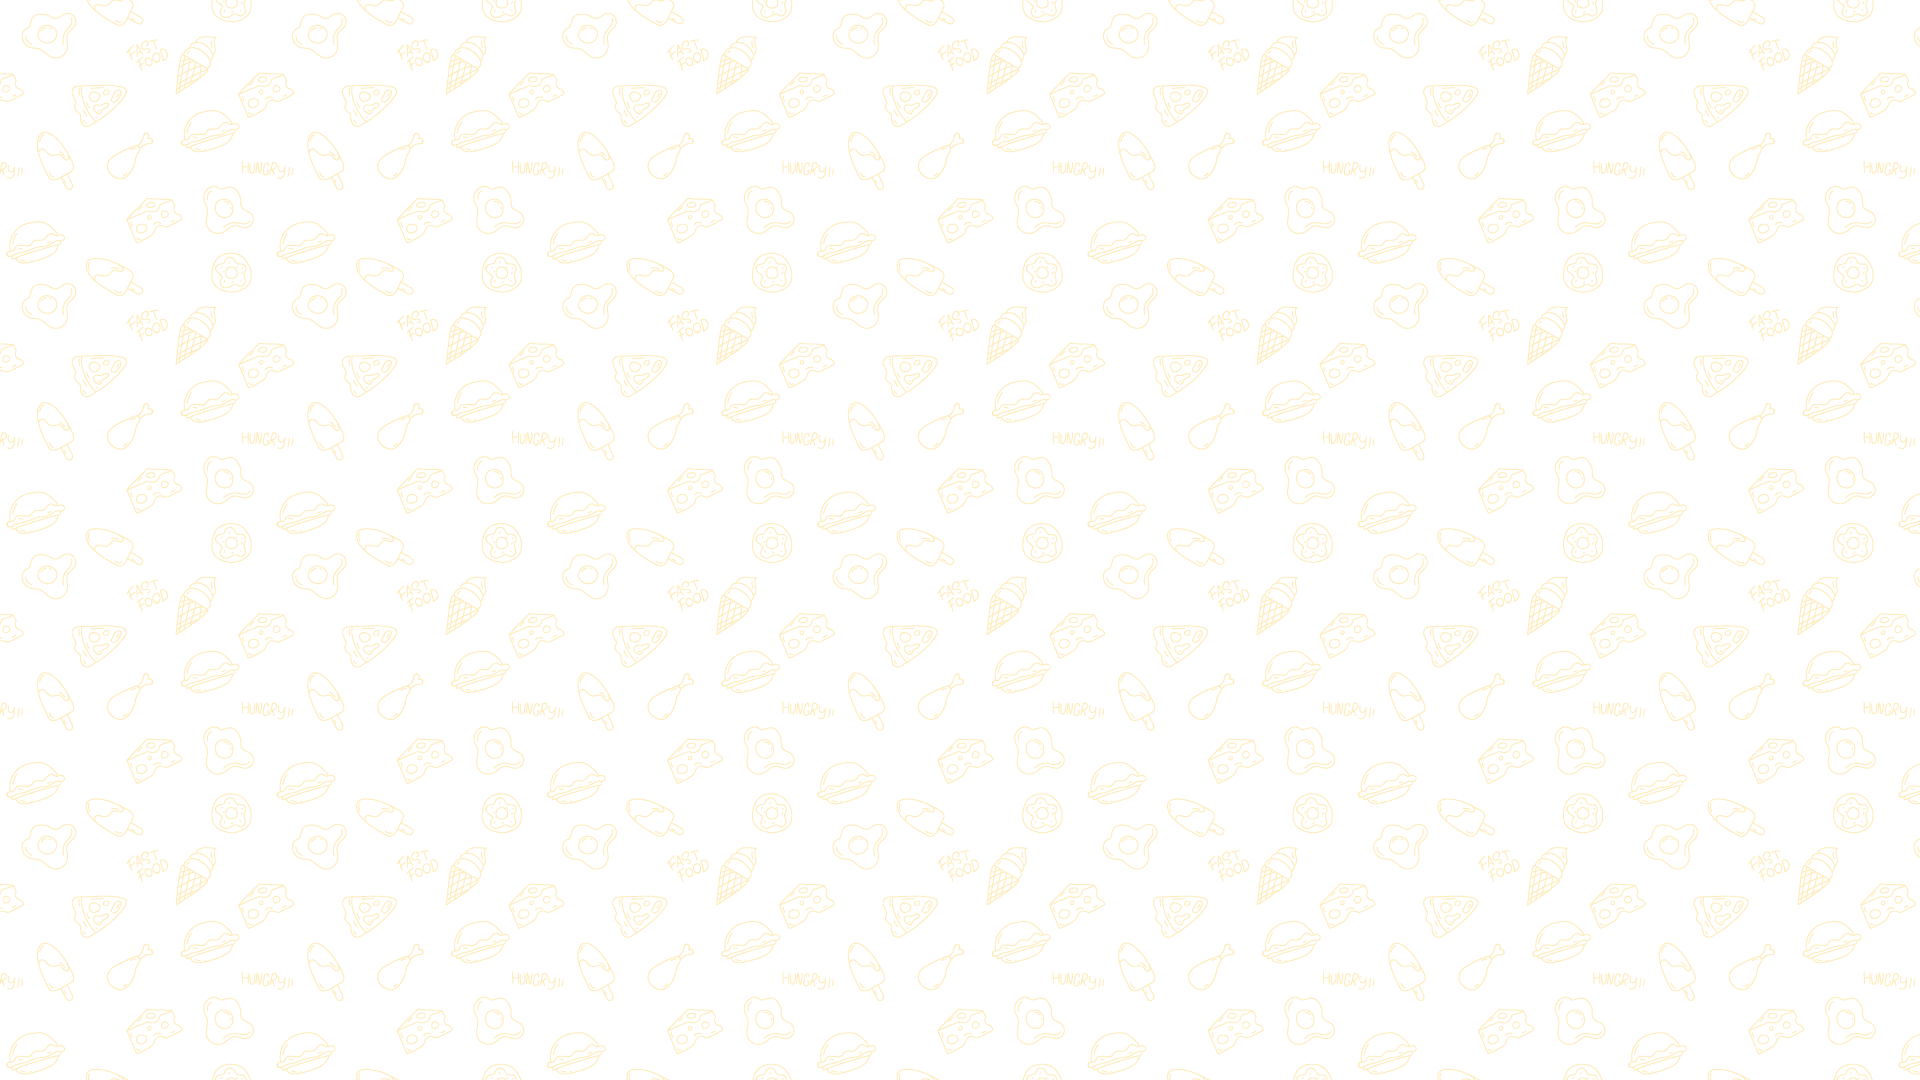
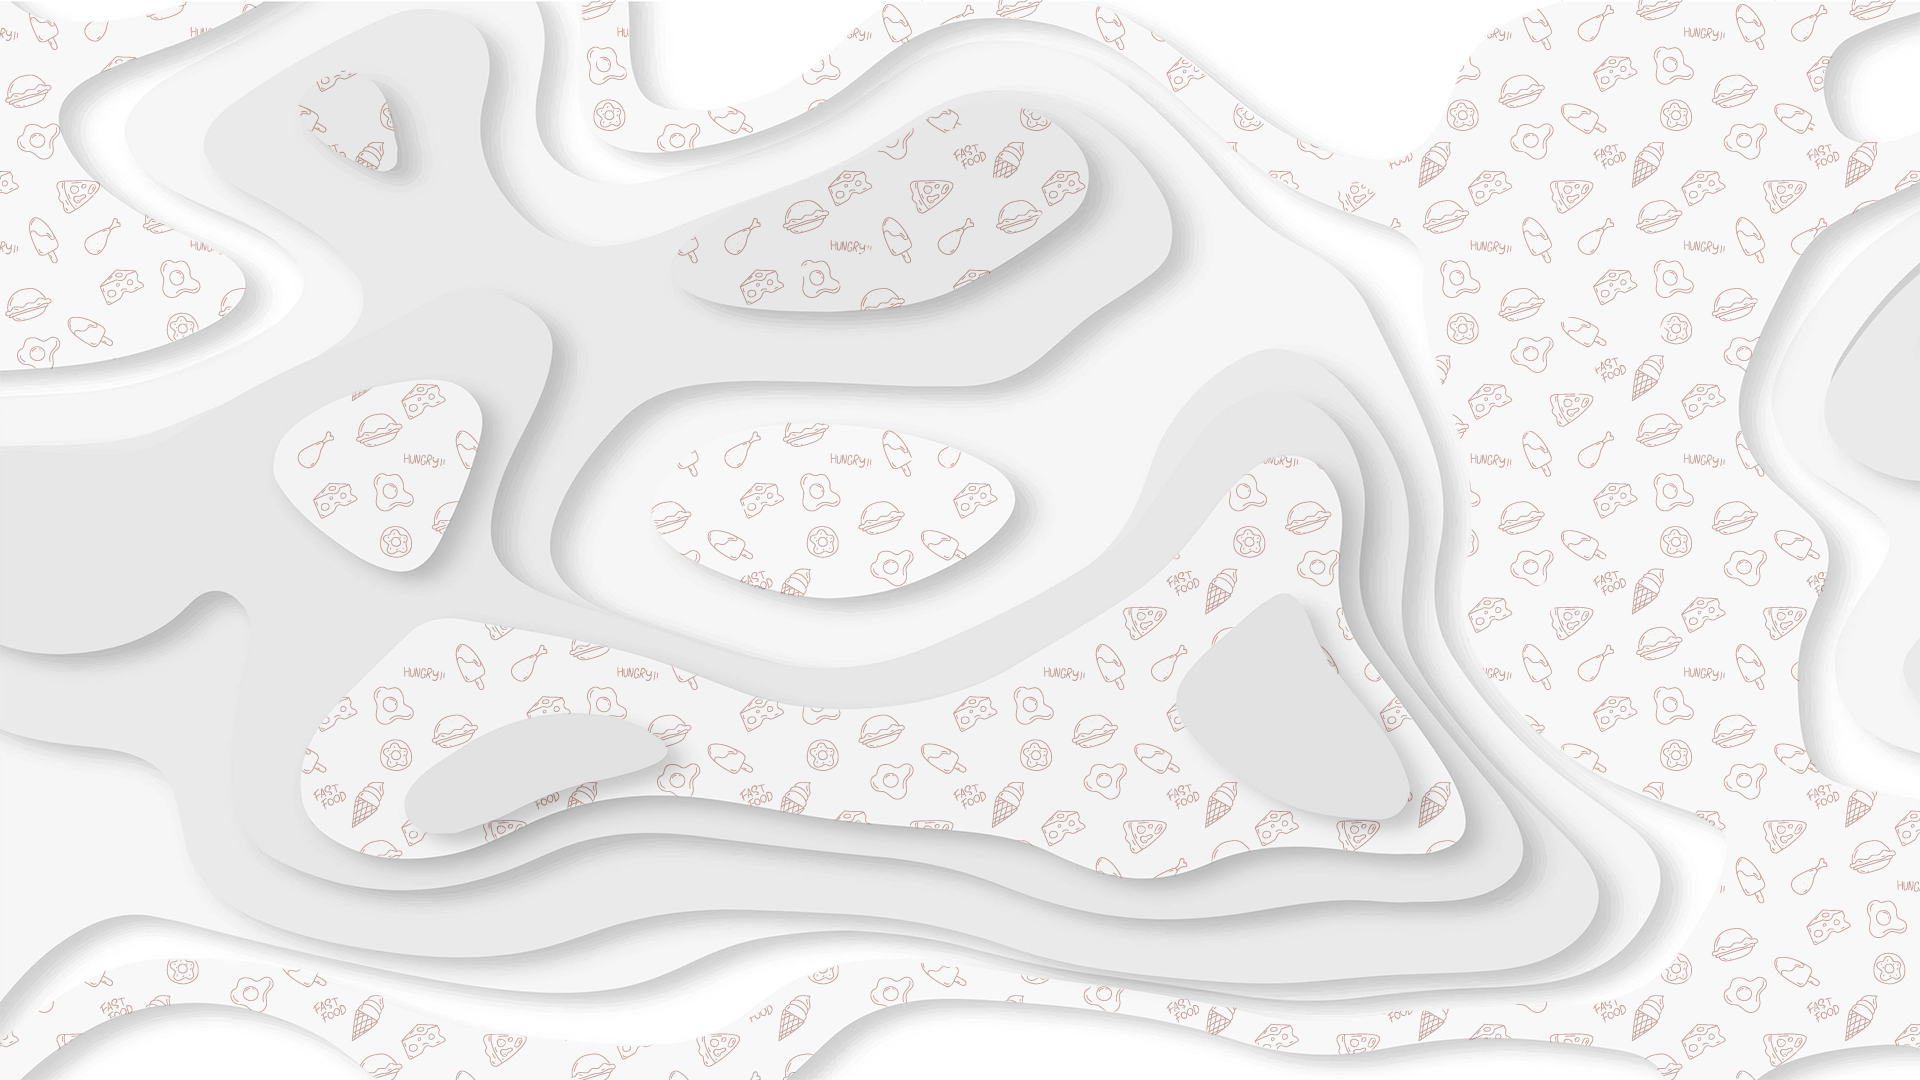
Alteração do Style e BG.

diff --git a/style.css b/style.css
@@ -15,18 +15,26 @@ body {
     gap: 20px;    
 }
 button {
-    background-color: #3B4356;
+    background-color: #E2E2E2;
     border: none;
     border-radius: 30px;
-    color: #ffffff;
+    color: #2d2427;
     padding: 10px;
     cursor: pointer;
     font-weight: bold;
     width: 110px;
+    transition: transform 0.2s ease, opacity 0.2s ease; /* Transição suave para animações */
+    box-shadow: 12px 12px 10px rgba(36, 40, 52, .4);
 }
 button:hover {
-    background-color: #181F31;
+    background-color: #F3F3F3;
+    transform: scale(1.1); /* Aumenta o tamanho do botão em 10% */
 }
+/* Efeito rápido no momento exato do clique */
+button:active {
+    background-color: rgba(250, 250, 250, .4);
+    transform: scale(0.95); /* Encolhe levemente o botão simulando um clique físico */
+}    
 ul {
     list-style: none;
     display: grid;
@@ -35,9 +43,9 @@ ul {
     justify-content: center;
 }
 li {
-    background-color: #090F1B;
-    border: 2px solid #2B3449;
-    box-shadow: -15px 15px 30px rgba(36, 40, 52, 1);
+    background-color: #E2E2E2;
+    border: none;
+    box-shadow: 12px 12px 10px rgba(36, 40, 52, .4);
     border-radius: 20px;
     padding: 5px;
 }
@@ -46,9 +54,9 @@ img{
     border-radius: 14px;
 }
 p {
-    color: #ffffff;
+    color: #2D2427;
 }
 .item-price {
     font-weight: bold;
-    color: #F7F7C6;
+    color: #ff9900;
 }